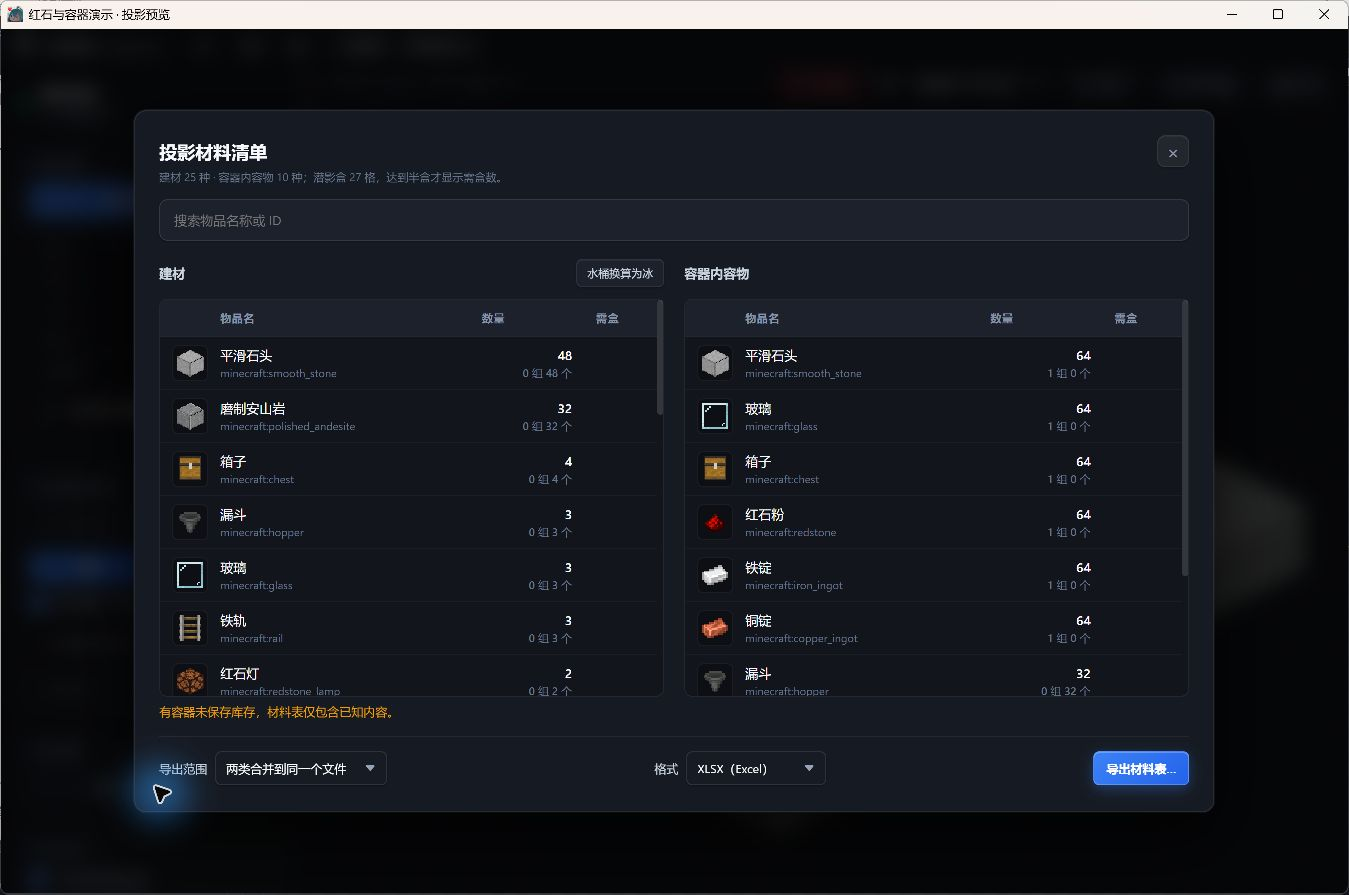
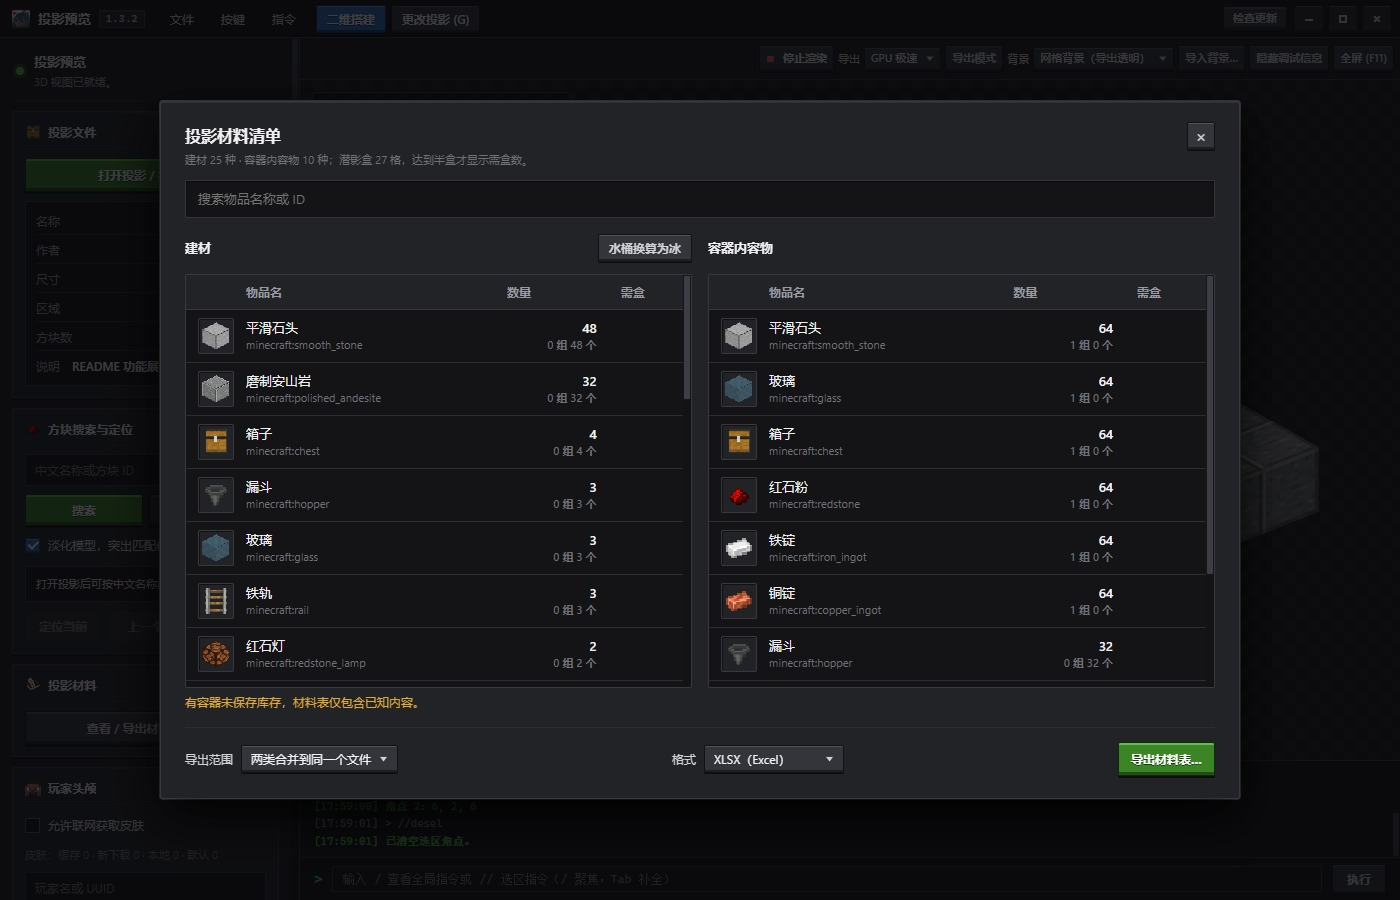
更新md

diff --git a/README.md b/README.md
@@ -1,18 +1,17 @@
 <div align="center">
   <img src="webapp/icon.png" alt="投影预览图标" width="88" height="88" />
-  <h1>投影预览</h1>
-  <p>Standalone Litematic Renderer — Minecraft Java 结构查看、材料统计与二维红石实验工具</p>
+  <h1>投影预览 · Litematic Viewer</h1>
+  <p><b>Standalone Litematic Renderer</b> — Minecraft Java 结构三维预览、双视角展示卡生成、选区编辑、材料统计与二维微时序红石实验工具</p>
   <p>
-    <a href="https://github.com/wocenimenma0220/Standalone-Litematic-Renderer/releases">下载便携版</a>
-    · <a href="docs/DEVELOPMENT.md">开发文档</a>
+    <a href="https://github.com/wocenimenma0220/Standalone-Litematic-Renderer/releases/latest">下载最新版 (v1.3.2)</a>
+    · <a href="docs/修复记录.md">更新日志</a>
+    · <a href="docs/DEVELOPMENT.md">开发与构建</a>
     · <a href="https://github.com/wocenimenma0220/Standalone-Litematic-Renderer/issues">问题反馈</a>
   </p>
-  <p>Windows x64 · Java 渲染引擎 · Electron 桌面应用 · 作者 LiteKinda</p>
+  <p>Windows x64 · Java 21 渲染引擎 · Electron 44 (Bedrock Ore UI) · 作者 LiteKinda</p>
 </div>
 
-无需启动 Minecraft 或安装 Litematica，直接打开 `.litematic`、Java 结构 `.nbt` 或 Sponge `.schem` 文件即可旋转预览模型、第一人称漫游、按层切片检查、统计材料，并导出图片、动图或编辑后的投影。自带 Java 与 Electron 运行时，解压即用。
-
-附带侧视与俯视二维搭建画布，适合做小型红石、容器、矿车、TNT 与流体测试，并支持按游戏刻（gt）和事件阶段逐步单步排查。
+无需启动 Minecraft 或安装 Litematica，直接打开 `.litematic`、Java 结构 `.nbt` 或 Sponge `.schem` 文件即可在无边框 Ore UI 工作区内旋转预览模型、第一人称漫游、按层/框选排查、统计材料清单、快速生成自适应双视角展示图并自动复制到剪贴板，或直接进行三维与二维微时序编辑。自带精简 Java 与 Electron 运行时，提供**安装版（支持应用内自动增量补丁更新）**与**绿色便携 ZIP 版**两种分发形态。
 
 - 作者 **LiteKinda**：[B 站主页](https://space.bilibili.com/107835436?spm_id_from=333.788.0.0)
 - **XeKr 红显材质包**（**XeKr**）：[B 站主页](https://space.bilibili.com/5930630?spm_id_from=333.788.upinfo.head.click) · [Modrinth 下载](https://modrinth.com/resourcepack/xk-redstone-display/versions)
@@ -20,65 +19,73 @@
 
 ---
 
-## 快速开始
+## 获取与快速开始
 
-1. 从 [Releases](https://github.com/wocenimenma0220/Standalone-Litematic-Renderer/releases) 下载对应版本的 Windows x64 安装包（`*-setup.exe`，支持应用内自动增量补丁更新与一键安装/卸载）或绿色便携包（`*.zip`，检测更新后引导下载；带 `-beta`、`-test` 等后缀的为测试版）。
-2. 将压缩包完整解压到可写目录（保留同级的 `bin`、`runtime`、`assets`、`webapp` 等文件夹），双击 `投影预览.exe`。
-3. 拖入或选择投影文件；通过左侧栏可调整选区、光照、材料清单或切换渲染/编辑模式。
+前往 [GitHub Releases](https://github.com/wocenimenma0220/Standalone-Litematic-Renderer/releases/latest) 下载适配 Windows 10/11 (x64) 的任意一种发行包（均内置运行时，无需单独安装 Java 或 Node.js）：
 
-> 便携版已自带运行环境，不用额外装 Java 或 Node.js。想先试效果可以直接打开仓库里的 [功能演示投影](docs/examples/功能演示.litematic)（含箱子、漏斗、红石、玻璃、水、TNT 和矿车，用于展示渲染与状态查看）。
+| 分发形态 | 文件名 | 适用场景与更新方式 |
+| --- | --- | --- |
+| **Windows 安装版（推荐）** | `Litematic-Viewer-<版本>-win-x64-setup.exe` | 图形化向导安装（默认写入 `%LocalAppData%\Programs\投影预览`，免管理员权限），支持桌面/开始菜单快捷方式、双击 `.litematic / .nbt / .schem` 关联打开、控制面板规范卸载，以及**应用内检测更新并下载 ~11 MB 增量补丁重启热替换** |
+| **绿色便携 ZIP 版** | `Litematic-Viewer-<版本>-win-x64.zip` | 完整解压至任意可写目录后双击 `投影预览.exe` 即可运行；内置版本检测并在有新版本时弹窗引导下载新版压缩包 |
+
+- **单实例复用**：应用运行期间从外部资源管理器双击或命令行再次打开投影文件时，会自动唤醒已有窗口直接切换加载，不会重复弹出新窗口。
+- **开箱体验**：想先测试渲染效果可直接打开仓库内自带的 [功能演示投影](docs/examples/功能演示.litematic)（含箱子、漏斗、红石、玻璃、水、TNT 与矿车）。
 
 ---
 
-## 主要功能
+## 核心功能与新版界面（1.3.2）
 
-当前版本：**1.3.2（正式版）**（以下功能截图拍摄于早期版本界面）。
+### 1. Bedrock Ore UI 深色工作区、三维预览与漫游
 
-### 三维预览与漫游
+![三维预览：无边框 Ore UI 界面、16x16 像素图标、实时 WebGL2 HUD 与命令行](docs/images/01-preview.jpg)
 
-![三维预览：红石、容器、透明方块与实体的当前界面](docs/images/01-preview.jpg)
+- **Ore UI 深灰像素风界面**：无边框窗口集成顶部自定义标题栏（含版本徽章与最小化 / 最大化 / 关闭控制键）、16×16 原版像素栏目图标、立体绿/蓝交互按钮，以及采用 `appearance: base-select` 重构的深色无蓝框下拉控件。
+- **实时 GPU 预览与第一人称漫游**：支持环绕拖拽旋转、滚轮缩放、15 套内置标准预设视角切换，或按 `V` 进入第一人称飞行漫游深入机器内部排查走线（可显示实时 XYZ 坐标并右键拾取方块/实体状态与容器库存）。
+- **大投影分块流式加载与着色准确化**：超大投影自动启用分块总览与 LOD 渐进补全，可配置显存上限、视距与磁盘场景缓存；支持 `grass.png` / `foliage.png` / `dry_foliage.png` 群系着色及跨版本兼容映射、玩家头颅皮肤缓存与外部资源包堆叠。
 
-- 自由旋转、缩放观察整体，或按 `V` 切换第一人称飞行漫游钻进机器内部查看走线。
-- 完整解析方块状态、透明材质排序、发光方块、平滑光照，以及部分方块实体和静态实体外观；支持加载外部资源包。
-- 大型投影自动切换分块流式加载：先显示粗略总览，再按视角精细补全与 LOD 降级，也可在设置里强制完整加载、调节视距与缓存大小（默认退出清理渲染缓存，可改为持久化复用）。
-- 交互使用 GPU 实时渲染，导出 PNG / GIF 时走 Java 软件渲染管线。
+### 2. GPU 极速导出与纯粹「导出模式」双视角展示卡
 
-### 选区、逐层查看与图片导出
+![导出模式：自适应双视角展示图 PNG、缩放查看器、剪贴板自动复制与默认位置设置](docs/images/06-sheet-mode.jpg)
 
-![选择渲染：保留选区，淡化外部方块并观察内部结构](docs/images/02-selection.jpg)
+- **GPU 极速 / CPU 精确导出切换**：工具栏支持一键切换导出后端：
+  - **GPU 极速**：复用当前 WebGL 几何与贴图离屏 FBO，毫秒级出图 PNG（支持透明、游戏天空、纯色与自定义背景图），并可配合多核后台 `GifWriter` 极速导出 50fps / 480 帧 360° 旋转 GIF（最高 4096 × 4096）。
+  - **CPU 精确**：支持分条带流式编码，导出 **`8192 ～ 81920`** 超高分辨率及 **`无损（贴图最高清晰）`** PNG。
+- **纯粹「导出模式」（点击工具栏 `导出模式`）**：
+  - 开启后拖入或打开投影**直接输出自适应双视角展示图 PNG 并自动写入系统剪贴板**，不挂载 3D 交互画布，适合批量晒图与群聊分享。
+  - **15 套 WikiRenderer / KCL 预设视角**：支持自定义左右面板视角、输出位置（默认投影同目录）、一键「按当前视角重导」，跟随左侧分辨率设置动态缩放卡片尺寸。
+  - **内置看图缩放台**：支持以鼠标位置为中心的滚轮缩放（0.5× – 12×）、鼠标拖动平移、双击重置适应及 `1:1` 原图像素切换。
 
-- 按 `B` 打开选点工具，设置两个角点框定局部区域；选区外的方块会自动淡化或裁切，关闭面板后仍保持选区效果。
-- 支持 Y 轴逐层切片浏览，方便逐层核对红石和建筑结构。
-- 支持按中文名、英文名或方块 ID 搜索并定位目标方块；点击可查看方块状态、NBT 及容器内物品与组件（若原投影未导出库存会明确提示）。
-- 后台导出自定义分辨率和视角的 PNG（支持 `8192～81920` 超高分辨率、贴图清晰上限自动计算尺寸的`无损`流式 PNG，以及透明背景）和 360° 旋转 GIF，导出期间不阻塞画面浏览。
+### 3. 选区、方块定位与一/二级指令系统
 
-### 材料清单与容器统计
+![选区与指令：//pos1 与 //pos2 选区外淡化、高亮范围框与底部指令交互栏](docs/images/02-selection.jpg)
 
-![材料面板：建材、容器内容物、数量换算和表格导出](docs/images/03-materials.jpg)
+- **选择渲染与切片（`B`）**：支持「圈选区域」（淡化外部方块并独立计算选区光照）与「逐层查看」（Y 轴切片）。
+- **中文 / ID 搜索定位**：按中文名或方块 ID 搜索并高亮全部匹配方块，支持「上一个 / 下一个 / 定位当前」。
+- **一级（`/`）与二级（`//`）指令控制台（按 `/` 聚焦，`Tab` 补全，`↑/↓` 翻阅历史）**：
+  - 一级全局指令：`/help`、`/commands`、`/pos`、`/tp`、`/view`、`/zoom`、`/fly`、`/vd`、`/search`、`/locate`、`/bg`、`/light`、`/layer`、`/tool`、`/export`、`/sheet`、`/sheetmode`、`/materials`、`/fullscreen`、`/sidebar`、`/console`、`/reload`、`/stop`、`/update`。
+  - 二级选区与批量编辑指令：`//pos1`、`//pos2`、`//select`、`//desel`、`//expand`、`//contract`、`//shift`、`//outset`、`//inset`、`//size`、`//count`、`//distr`、`//set`、`//replace`、`//undo`、`//redo`。
 
-- 将“建筑所需材料”与“容器内部物品”分开统计，互不混算。
-- 支持名称/ID 筛选，并按个 / 组 / 潜影盒自动换算数量。
-- 可一键将建材列表中的水桶按 1:1 换算为普通冰块（不影响容器内物品），并支持合并或拆分导出为 XLSX / CSV。
+### 4. 材料清单与容器库存统计
 
-### 三维投影编辑
+![材料清单：建材与容器内容物分离统计、水桶换冰与 XLSX / CSV 导出](docs/images/03-materials.jpg)
 
-![更改投影：方块分类、背包、快捷栏、调试棒与导出](docs/images/04-editor.jpg)
+- 严格区分 **「建材」** 与 **「容器内容物」**，防止混算；内置中英文/ID 搜索筛选，自动换算为 `组 / 个 / 潜影盒`。
+- 支持一键将建材中的水桶按 1:1 换算为普通冰块（不影响容器内物品），并支持合并或拆分导出为 **XLSX（Excel）** 或 **CSV**。
 
-- 按 `G` 进入“更改投影”后可在三维视图里直接放置、删除或吸取方块，内置 36 格背包与 9 格快捷栏。
-- 内置调试棒工具，直接切换朝向、开关、连接状态等方块属性。
-- 编辑支持撤销与重做，处理常见多格方块及活塞联动。
-- 所有改动仅存在于编辑副本，必须手动导出 `.litematic` 才会落盘，不会误改源文件；由 `.nbt` / `.schem` 导入的结构同样统一导出为 `.litematic`。
+### 5. 三维投影编辑（`更改投影`）
 
-### 二维搭建与微时序排查
+![更改投影：分类方块工具栏、36 格背包快捷栏、调试棒与实时三维编辑](docs/images/04-editor.jpg)
 
-![二维侧视：TNT 水流实验、逐刻推进、阶段记录与待执行队列](docs/images/05-board-timing.jpg)
+- 按 `G` 打开底部「更改投影」抽屉：左键删除、中键吸取、`Shift + 右键` 放置，支持 36 格个人背包与 9 格快捷栏、`调试棒` 切换方块属性及批量撤销/重做。
+- 编辑仅存在于临时副本，导出时统一保存为 `.litematic`，不会误改原文件。
 
-- 提供“侧视”与“俯视”两种平面画布，左键放方块、右键触发元件或打开容器，支持平移缩放、框选拖动和撤销重做。
-- 已接入常见红石元件（粉、火把、中继器、比较器、侦测器、铜灯等）、平面活塞推动（含短脉冲丢块与部分准连接 / BUD）、容器漏斗传输冷却、铁轨矿车，以及 TNT 引爆、爆炸冲量和基础水流/熔岩扩散。
-- 画布默认暂停：可连续运行，也能单步推进 1 gt、下一阶段或下一事件；打开时序面板可查看各阶段微时序记录并按坐标/元件筛选导出。
-- 侧视与俯视画布均会定期自动暂存并在下次重启恢复（保持暂停），重要设计也支持导出/导入 JSON（[更多实验示例见 docs/examples](docs/examples/)）。
+### 6. 二维搭建与微时序红石排查
 
-更多细节见[二维搭建范围说明](docs/二维微时序测试版说明.md)与[二维 TNT 与流体实现](docs/二维TNT与流体实现.md)。
+![二维搭建：侧视 TNT 水流微时序单步推进、阶段队列记录与实体/方块面板](docs/images/05-board-timing.jpg)
+
+- 提供「侧视」与「俯视」两种平面红石与实体沙盒（对齐 Minecraft Java 26.3 本地参考源码逻辑），支持红石元件、活塞与准连接 / BUD、容器漏斗冷却、铁轨矿车、TNT 爆炸冲量及基础水流/熔岩扩散。
+- 支持按 **1 gt / 下一阶段 / 下一事件** 单步排查并查看实时事件队列与状态变化记录；画布会自动暂存并在下次打开时恢复（默认暂停），也支持导出/加载 `.json`（示例见 [docs/examples](docs/examples/)）。
+- 更多实现边界见 [二维搭建范围说明](docs/二维微时序测试版说明.md) 与 [二维 TNT 与流体实现](docs/二维TNT与流体实现.md)。
 
 ---
 
@@ -86,39 +93,35 @@
 
 | 格式 | 用途 | 备注 |
 | --- | --- | --- |
-| `.litematic` | 三维查看、检查、材料统计与编辑 | 编辑结果默认导出为该格式 |
+| `.litematic` | 三维查看、展示卡导出、材料统计与编辑 | 编辑结果统一导出为 `.litematic` |
 | `.nbt` | 导入 Minecraft Java 结构文件 | 多调色板默认读取第一套，不支持任意 SNBT |
 | `.schem` | 导入 Sponge v2 / v3 结构 | 不做游戏 DataFixer 跨版本迁移 |
-| `.json` | 二维画布存档 | 在“二维搭建”界面单独打开 |
+| `.json` | 二维画布存档 | 在“二维搭建”界面保存或打开 |
 
-> Java `.nbt` 和 Sponge `.schem` 目前限制总体积不超过 1600 万格、单轴范围 1–16384，暂不支持老版本数字 ID 的 `.schematic` 或基岩版结构。
+> Java `.nbt` 和 Sponge `.schem` 当前限制总体积不超过 1600 万格、单轴范围 1–16384，暂不支持老版本数字 ID `.schematic` 或基岩版结构。
 
 ---
 
 ## 常用快捷键
 
-默认键位可在界面设置中自定义：
+可在界面顶栏 **按键** 菜单中自由重绑：
 
 | 场景 | 功能 | 默认按键 |
 | --- | --- | --- |
-| 三维视图 | 切换漫游模式 | `V` |
-| 三维视图 | 切换更改投影 | `G` |
-| 三维视图 | 切换选点工具 | `B` |
-| 三维视图 | 打开命令栏 | `/` |
+| 三维视图 | 进入/退出漫游 · 切换更改投影 · 选点工具 | `V` · `G` · `B` |
+| 指令栏 | 聚焦指令输入 · 自动补全 · 历史记录 | `/` · `Tab` · `↑ / ↓` |
 | 漫游移动 | 移动 / 上升 / 下降 / 加速 | `W A S D`、`Space`、`Shift` / `C`、`Ctrl` |
-| 选区 | 设置角点1 / 角点2 | 左键 / 右键 |
-| 选区 / 切片 | 调整角点或切换切片高度 | `Alt` + 滚轮 |
-| 编辑快捷栏 | 选择槽位 / 调试棒 / 切换 | `1–9`、`0`、滚轮 |
+| 选区 | 设置角点 1 / 角点 2 · 调整角点/切片高度 | 左键 / 右键 · `Alt + 滚轮` |
+| 编辑快捷栏 | 选择槽位 / 调试棒 / 滚轮切换 | `1–9`、`0`、滚轮 |
 | 通用编辑 | 撤销 / 重做 | `Ctrl + Z`、`Ctrl + Shift + Z` |
-| 二维画布 | 放置 / 交互或开容器 | 左键 / 右键 |
-| 二维画布 | 移动方块 / 平移 / 缩放 | `Shift` + 右键拖动、中键拖动、滚轮 |
+| 二维画布 | 放置 / 交互 · 拖动移动方块 · 平移 / 缩放 | 左键 / 右键 · `Shift + 右键` · 中键 / 滚轮 |
 | 窗口 | 全屏 / 释放鼠标锁定 | `F11`、`Esc` |
 
 ---
 
-## 从源码构建
+## 从源码构建与热渲染开发
 
-需要 **Windows、PowerShell 7、JDK 21+、Node.js**（打包便携版另需 JDK 自带 `jlink` 及系统 `.NET Framework` C# 编译器）。
+需要 **Windows、PowerShell 7（或 5.1）、JDK 21+、Node.js**（打包发行版需 JDK 自带 `jlink` 及系统 `.NET Framework` `csc.exe`）。
 
 ```powershell
 git clone https://github.com/wocenimenma0220/Standalone-Litematic-Renderer.git
@@ -127,35 +130,41 @@ cd Standalone-Litematic-Renderer
 # 安装 Electron 依赖
 .\install.bat
 
-# 从本地 Minecraft Java 客户端 JAR 准备贴图与模型资源
+# 从本地 Minecraft Java 客户端 JAR 准备原版贴图与模型资源
 .\tools\prepare-resources.ps1 -ClientJar 'C:\path\to\client.jar'
 
-# 构建便携发行包（输出到 dist/）
+# 开发热渲染调试（修改 CSS 自动热替换并保留 3D 现场，修改 HTML/JS 自动重载）
+npm --prefix webapp run dev
+```
+
+打包全套发行产物（输出便携 ZIP、增量补丁 ZIP、Windows 安装包 `*-setup.exe`、`latest.json` 及 `SHA256SUMS` 至 `dist/`）：
+
+```powershell
 .\package.ps1 -JdkHome 'C:\path\to\jdk'
 ```
 
-运行回归测试：
+运行自动化回归验证：
 
 ```powershell
-.\verify.ps1 -JdkHome 'C:\path\to\jdk'
+.\verify.ps1 -Profile Full -DesktopUi -JdkHome 'C:\path\to\jdk'
 ```
 
-详细测试参数（`-Profile Full`、`-Ui`、`-DesktopUi`）和目录结构见[开发与验证文档](docs/DEVELOPMENT.md)。
+详细目录结构、回归测试开关与发版流水线说明见 [开发与验证文档](docs/DEVELOPMENT.md)。
 
 ---
 
 ## 目前已知边界
 
-- 二维画布仅模拟当前平面（侧视 z=0，俯视 y=0），不包含区块加载、随机刻、熔炉/合成器生产配方或生物 AI。
-- 部分模组方块或冷门实体的特殊模型缺少静态渲染适配，GPU 实时预览与软件导出画面之间偶尔会有轻微色差。
-- 若原始投影导出时漏存了箱子或实体 NBT，软件无法凭空补回。
-- 便携版目前仅针对 Windows x64 构建验证。
+- 二维画布仅模拟当前选定平面（侧视 z=0，俯视 y=0），不包含区块加载、随机刻、熔炉/合成器生产配方或生物 AI。
+- 部分模组方块或冷门实体缺少静态渲染适配，GPU 实时预览与软件导出画面之间偶尔存在轻微光影差异。
+- 若原始投影导出时未保存箱子或实体 NBT，工具无法凭空补回库存。
+- 便携版与安装版目前仅面向 Windows x64 构建与验证。
 
 ---
 
 ## 致谢与许可
 
-仓库根目录暂未附带单独的 `LICENSE` 文本；`webapp/package.json` 标注为 ISC。内置第三方资源需遵守对应作者许可：
+`webapp/package.json` 标注为 `ISC`。内置第三方资源需遵守各自开源许可：
 
 - 部分静态方块实体模型改写自 EnhancedBlockEntities（LGPL-3.0）：[EBE-NOTICE](assets/builtin/static-block-entities/EBE-NOTICE.md) · [EBE-LICENSE](assets/builtin/static-block-entities/EBE-LICENSE.txt)
 - 内置字体及 Unifont 说明：[字体说明](assets/builtin/minecraft-font/README.txt)

diff --git a/docs/DEVELOPMENT.md b/docs/DEVELOPMENT.md
@@ -54,13 +54,13 @@
 ./package.ps1 -JdkHome 'C:/path/to/jdk'
 ```
 
-打包脚手架会编译 Java、重新构建带版本号属性的 `投影预览.exe`、裁剪精简 Java 运行时并打包 Electron，产物输出至 `dist/`。
+打包脚手架会编译 Java、重新构建带版本号与自动打补丁逻辑的 `投影预览.exe`、裁剪精简 Java 运行时并打包 Electron，一次性向 `dist/` 输出 **便携 ZIP**、**Windows 安装版（`*-setup.exe`）**、**增量补丁包（`*-patch.zip`）**、更新清单 **`latest.json`** 以及 SHA-256 校验文件。
 
 版本更新流程：
 
-1. 修改并同步版本：`node tools/version.cjs --write 1.3.0`（同步 `webapp/package-lock.json` 与 `webapp/renderer/app-version.js`）。
-2. 重新构建打包并跑全套 `./verify.ps1` 检查。
-3. 推送 Git 提交后，运行 `node tools/publish-test-release.cjs <完整提交 SHA>` 自动校验制品 SHA-256 并发布到 GitHub Releases（版本号不带 `-` 后缀视为正式版，自动标为 Latest；更新说明读取自 `docs/修复记录.md`）。
+1. 修改并同步版本：`node tools/version.cjs --write 1.3.2`（支持三段/四段版本号，同步 `webapp/package-lock.json` 与 `webapp/renderer/app-version.js`）。
+2. 更新 `docs/修复记录.md`，重新构建打包并跑全套 `./verify.ps1` 检查。
+3. 推送 Git 提交后，可运行 `node tools/publish-test-release.cjs <完整提交 SHA>` 自动校验全部 6 个制品 SHA-256 并发布到 GitHub Releases（版本号不带 `-` 后缀视为正式版并标为 Latest），或推送 `v*` 标签由 `.github/workflows/release.yml` 自动完成云端构建与发布。
 
 ## 主要源码入口
 
@@ -69,8 +69,12 @@
 | `src/.../serve/RenderEngine.java` | 资源加载、投影打开、场景缓存管理与编辑会话 |
 | `src/.../schematic/ProjectionEdits.java` | 保留原 NBT 的方块修改、成对/活塞联动、撤销历史与原子写入 |
 | `src/.../schematic/SchematicFormats.java` | Java `.nbt` 与 Sponge v2/v3 `.schem` 统一导入 |
-| `webapp/main.js`、`preload.js` | Electron 主进程窗口、菜单及受限 IPC 接口 |
-| `webapp/renderer/renderer.js`、`gpu-view.js`、`lod-stream.js` | GPU 视图、自由漫游与分块网格传输 |
+| `tools/launcher/Launcher.cs` | 原生启动器 `投影预览.exe`（图形/CLI 统一入口与安装版重启热补丁应用） |
+| `tools/installer/Setup.cs` | 单文件 Windows 安装向导与控制面板卸载程序 |
+| `webapp/main.js`、`preload.js`、`updater.js` | Electron 主进程单实例复用、受限 IPC、热重载 `--dev` 与双轨 GitHub 更新检查 |
+| `webapp/renderer/renderer.js`、`gpu-view.js`、`lod-stream.js` | Ore UI 主界、GPU 视图、自由漫游与分块网格传输 |
+| `webapp/renderer/gpu-exporter.js`、`sheet-exporter.js`、`view-presets.js` | 离屏 GPU 导出管线、自适应双视角展示卡生成与 15 套标准预设视角 |
+| `webapp/renderer/command-router.js` | `/` 一级全局指令与 `//` 二级选区/编辑指令控制台 |
 | `webapp/renderer/projection-edit.js` | 三维编辑交互与快捷键控制 |
 | `webapp/renderer/materials-panel.js` | 建材与容器统计、水桶换冰与表格导出 |
 | `webapp/renderer/board-loader.js`、`board-session.js` | 二维画布按需加载、历史上限与暂存恢复 |
